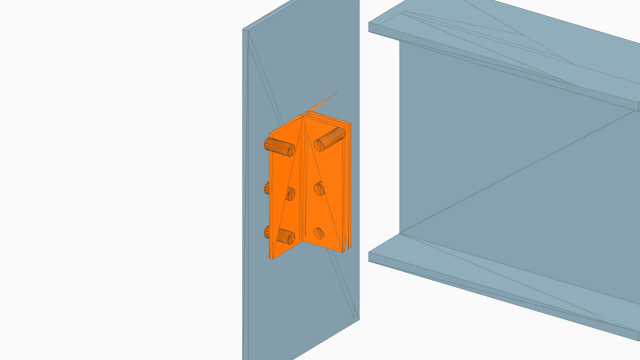
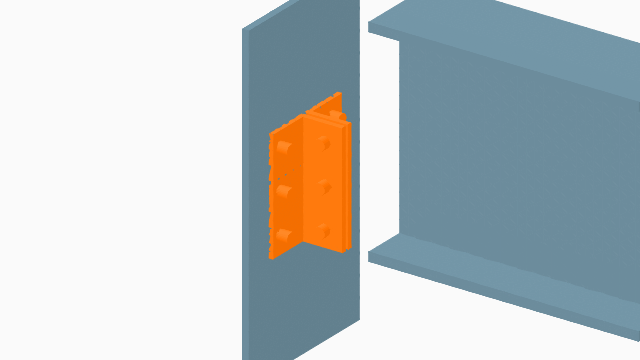
feat(gui): limpia el render 3D y resalta la conexion
- Corrige la orientacion de las caras y oculta las posteriores.
- Quita el wireframe de triangulacion y cierra las juntas con lapiz del color de la cara.
- Subdivide las caras grandes para que el orden por profundidad sea local.
- Colorea los elementos de conexion en naranja y la placa base en naranja.
- Regenera las miniaturas y actualiza la ayuda del visor.

diff --git a/src/openconex/gui/viewer3d.py b/src/openconex/gui/viewer3d.py
@@ -29,7 +29,11 @@ __all__ = ["Viewer3D", "part_color", "render_parts"]
 
 
 def part_color(name: str) -> QColor:
-    """Stable colour per semantic part name."""
+    """Stable colour per semantic part name.
+
+    Connection elements share a warm highlight so they stand out from the
+    grey-blue beam, support and column; bolts stay dark.
+    """
     lower = name.casefold()
     if "column" in lower:
         return QColor("#1565c0")
@@ -44,8 +48,12 @@ def part_color(name: str) -> QColor:
     if "face_plate" in lower or "embedded" in lower:
         return QColor("#546e7a")
     if "base_plate" in lower:
-        return QColor("#607d8b")
-    return QColor("#78909c")
+        return QColor("#ef6c00")
+    if ("bolt" in lower or "angle" in lower or "seat" in lower
+            or "stiffener" in lower or "bent_plate" in lower
+            or "doubler" in lower or lower == "plate" or "end_plate" in lower):
+        return QColor("#ef6c00")
+    return QColor("#607d8b")
 
 
 class _ViewCanvas(QWidget):
@@ -121,13 +129,21 @@ class _ViewCanvas(QWidget):
         cyaw, syaw = math.cos(yaw), math.sin(yaw)
         cpitch, spitch = math.cos(pitch), math.sin(pitch)
         ox, oy, oz = self._center
-        triangles: list[tuple[float, QPolygonF, QColor, str]] = []
-        for mesh in self._meshes:
+        # Outward normal of a face must point toward the camera; culling the
+        # rest removes hidden surfaces and most painter-order flicker.
+        view = (cpitch * syaw, cpitch * cyaw, spitch)
+        light_dir = (-0.35, 0.45, 0.82)
+        triangles: list[tuple[float, int, QPolygonF, QColor, str]] = []
+        for part_index, mesh in enumerate(self._meshes):
             if mesh.name in self._hidden:
                 continue
             color = (self._highlight_color if mesh.name in self._highlight
                      else part_color(mesh.name))
             for p0, p1, p2 in mesh.triangles:
+                normal = _normal(p0, p1, p2)
+                if (normal[0] * view[0] + normal[1] * view[1]
+                        + normal[2] * view[2]) <= 1e-9:
+                    continue
                 points = []
                 for point in (p0, p1, p2):
                     x, y, z = point[0] - ox, point[1] - oy, point[2] - oz
@@ -139,22 +155,24 @@ class _ViewCanvas(QWidget):
                     depth = z1 * spitch + y1 * cpitch
                     points.append((screen_x, screen_y, depth))
                 depth = sum(point[2] for point in points) / 3
-                normal = _normal(p0, p1, p2)
-                light = abs(normal[0] * 0.35 + normal[1] * -0.45 + normal[2] * 0.82)
+                light = max(0.0, normal[0] * light_dir[0]
+                            + normal[1] * light_dir[1]
+                            + normal[2] * light_dir[2])
                 shade = 0.55 + 0.45 * min(light, 1.0)
                 tint = QColor(color)
                 tint = tint.lighter(int(100 + shade * 70)) if self._selected == mesh.name \
                     else tint.darker(int(120 - shade * 40))
                 polygon = QPolygonF([QPointF(point[0], point[1]) for point in points])
-                triangles.append((depth, polygon, tint, mesh.name))
-        triangles.sort(key=lambda item: item[0])
-        painter.setPen(QPen(QColor(30, 35, 40, 90), 0.35))
-        for _depth, polygon, tint, name in triangles:
+                # A tiny part bias keeps coplanar faces from flickering while
+                # the model rotates.
+                triangles.append((depth + part_index * 0.001, part_index,
+                                  polygon, tint, mesh.name))
+        triangles.sort(key=lambda item: (item[0], item[1]))
+        for _depth, _part, polygon, tint, _name in triangles:
             painter.setBrush(QBrush(tint))
-            if name == self._selected:
-                painter.setPen(QPen(QColor("#ff6f00"), 1.4))
-            else:
-                painter.setPen(QPen(QColor(30, 35, 40, 80), 0.35))
+            # Same-colour outline closes antialiasing seams without drawing
+            # the triangulation as a wireframe.
+            painter.setPen(QPen(tint, 1.0))
             painter.drawPolygon(polygon)
         if self._show_hint:
             painter.setPen(QColor("#455a64"))
@@ -195,12 +213,16 @@ class _ViewCanvas(QWidget):
 
 
 def _swap_yz_meshes(meshes: list[MeshPart]) -> list[MeshPart]:
-    """Map the shear model's y-up axes to the viewer's z-up axes."""
+    """Map the shear model's y-up axes to the viewer's z-up axes.
+
+    Swapping y and z is a reflection: the vertex order is reversed so the
+    outward normals keep their orientation and back-face culling stays valid.
+    """
     swapped: list[MeshPart] = []
     for mesh in meshes:
         triangles = [((p0[0], p0[2], p0[1]),
-                      (p1[0], p1[2], p1[1]),
-                      (p2[0], p2[2], p2[1]))
+                      (p2[0], p2[2], p2[1]),
+                      (p1[0], p1[2], p1[1]))
                      for p0, p1, p2 in mesh.triangles]
         swapped.append(MeshPart(mesh.name, tuple(triangles)))
     return swapped
@@ -221,7 +243,7 @@ def render_parts(parts: list[Part], size: QSize, *, yaw: float = 35.0,
     members in ``hide``) and pulled back by ``margin`` so some member context
     remains visible.  It is used by the gallery thumbnail generator.
     """
-    meshes = tessellate_parts(parts)
+    meshes = tessellate_parts(parts, max_edge=25.0)
     if swap_yz:
         meshes = _swap_yz_meshes(meshes)
     if explode:

diff --git a/src/openconex/geometry3d/mesh.py b/src/openconex/geometry3d/mesh.py
@@ -4,6 +4,7 @@
 
 from __future__ import annotations
 
+import math
 from dataclasses import dataclass
 
 from openconex.geometry3d.base_plate import Part
@@ -13,6 +14,12 @@ __all__ = ["MeshPart", "tessellate_parts"]
 Point = tuple[float, float, float]
 Triangle = tuple[Point, Point, Point]
 
+# Large planar faces are only two triangles.  The painter's algorithm sorts by
+# triangle depth, so a huge face can be drawn over a nearer small part.  Split
+# long triangles to keep the depth comparison local.  The viewer uses the
+# default (interactive); the gallery asks for a finer 25 mm mesh.
+MAX_EDGE = 40.0
+
 
 @dataclass(frozen=True)
 class MeshPart:
@@ -20,11 +27,41 @@ class MeshPart:
     triangles: tuple[Triangle, ...]
 
 
-def tessellate_parts(parts: list[Part], deflection: float = 0.5) -> list[MeshPart]:
+def _midpoint(a: Point, b: Point) -> Point:
+    return ((a[0] + b[0]) / 2, (a[1] + b[1]) / 2, (a[2] + b[2]) / 2)
+
+
+def _split(a: Point, b: Point, c: Point) -> tuple[Triangle, Triangle]:
+    """Split the edge a-b, preserving the winding of (a, b, c)."""
+    m = _midpoint(a, b)
+    return (a, m, c), (m, b, c)
+
+
+def _subdivide(triangle: Triangle, max_edge: float,
+               depth: int = 0) -> list[Triangle]:
+    p0, p1, p2 = triangle
+    edges = ((p0, p1, p2), (p1, p2, p0), (p2, p0, p1))
+    lengths = (math.dist(p0, p1), math.dist(p1, p2), math.dist(p2, p0))
+    index = max(range(3), key=lengths.__getitem__)
+    if lengths[index] <= max_edge or depth >= 12:
+        return [triangle]
+    a, b, c = edges[index]
+    return [part for child in _split(a, b, c)
+            for part in _subdivide(child, max_edge, depth + 1)]
+
+
+def _subdivide_triangles(triangles: list[Triangle],
+                         max_edge: float) -> tuple[Triangle, ...]:
+    return tuple(part for triangle in triangles
+                 for part in _subdivide(triangle, max_edge))
+
+
+def tessellate_parts(parts: list[Part], deflection: float = 0.35,
+                     max_edge: float = MAX_EDGE) -> list[MeshPart]:
     """Triangulate every part; faces without a mesh are skipped."""
     from OCP.BRep import BRep_Tool
     from OCP.BRepMesh import BRepMesh_IncrementalMesh
-    from OCP.TopAbs import TopAbs_FACE
+    from OCP.TopAbs import TopAbs_FACE, TopAbs_REVERSED
     from OCP.TopExp import TopExp_Explorer
     from OCP.TopLoc import TopLoc_Location
     from OCP.TopoDS import TopoDS
@@ -36,6 +73,7 @@ def tessellate_parts(parts: list[Part], deflection: float = 0.5) -> list[MeshPar
         triangles: list[Triangle] = []
         while explorer.More():
             face = TopoDS.Face(explorer.Current())
+            reversed_face = face.Orientation() == TopAbs_REVERSED
             location = TopLoc_Location()
             triangulation = BRep_Tool.Triangulation_s(face, location)
             if triangulation is not None:
@@ -46,8 +84,12 @@ def tessellate_parts(parts: list[Part], deflection: float = 0.5) -> list[MeshPar
                     nodes.append((point.X(), point.Y(), point.Z()))
                 for index in range(1, triangulation.NbTriangles() + 1):
                     a, b, c = triangulation.Triangle(index).Get()
-                    triangles.append((nodes[a - 1], nodes[b - 1], nodes[c - 1]))
+                    if reversed_face:
+                        triangles.append((nodes[a - 1], nodes[c - 1], nodes[b - 1]))
+                    else:
+                        triangles.append((nodes[a - 1], nodes[b - 1], nodes[c - 1]))
             explorer.Next()
         if triangles:
-            meshes.append(MeshPart(part.name, tuple(triangles)))
+            meshes.append(MeshPart(part.name,
+                                   _subdivide_triangles(triangles, max_edge)))
     return meshes

diff --git a/tools/render_connection_thumbnails.py b/tools/render_connection_thumbnails.py
@@ -42,13 +42,13 @@ SIZE = QSize(640, 360)
 BASE_PLATE = (
     # family, subtype, asset, margin, highlight, hide, highlight colour
     ("base_plate", "exposed", "base_plate_exposed", 1.8, ("base_plate",),
-     ("beam", "support", "column", "pedestal", "foundation"), "#1565c0"),
+     ("beam", "support", "column", "pedestal", "foundation"), "#ef6c00"),
     ("base_plate", "embedded", "base_plate_embedded", 1.3,
      ("embedded_base_plate", "face_plate_front", "face_plate_back"), (), "#ef6c00"),
     ("base_plate", "weak", "base_plate_weak", 1.8, ("base_plate",),
-     ("beam", "support", "column", "pedestal", "foundation"), "#1565c0"),
+     ("beam", "support", "column", "pedestal", "foundation"), "#ef6c00"),
     ("base_plate", "exposed", "family_base_plate", 2.1, ("base_plate",),
-     ("beam", "support", "column", "pedestal", "foundation"), "#1565c0"),
+     ("beam", "support", "column", "pedestal", "foundation"), "#ef6c00"),
 )
 
 SHEAR_APP = (
@@ -60,7 +60,7 @@ SHEAR_APP = (
     ("shear_column", "extended_single_plate", "shear_extended_plate", 2.0,
      {"beam": (0.0, -200.0, 0.0)}, "column"),
     ("shear_column", "end_plate", "shear_end_plate", 2.0,
-     {"beam": (110.0, 0.0, 0.0), "end_plate": (80.0, 0.0, 0.0)}, "column"),
+     {"beam": (80.0, -260.0, 0.0), "end_plate": (80.0, 0.0, 0.0)}, "column"),
     ("shear_column", "seated", "shear_seated", 1.4,
      {"beam": (80.0, 0.0, 220.0)}, "column"),
     ("shear_column", "stiffened_seat", "shear_stiffened_seat", 1.4,
@@ -76,7 +76,7 @@ SHEAR_BEAM_APP = (
     ("shear_beam", "extended_single_plate", "shear_beam_extended_single_plate", 2.0,
      {"beam": (0.0, -200.0, 0.0)}, None),
     ("shear_beam", "end_plate", "shear_beam_end_plate", 2.0,
-     {"beam": (110.0, 0.0, 0.0), "end_plate": (80.0, 0.0, 0.0)}, None),
+     {"beam": (80.0, -260.0, 0.0), "end_plate": (80.0, 0.0, 0.0)}, None),
     ("shear_beam", "seated", "shear_beam_seated", 1.4,
      {"beam": (80.0, 0.0, 220.0)}, None),
     ("shear_beam", "stiffened_seat", "shear_beam_stiffened_seat", 1.4,

diff --git a/tests/outputs/test_viewer3d.py b/tests/outputs/test_viewer3d.py
@@ -34,6 +34,10 @@ def test_part_colors():
     assert part_color("shear_lug").name() == "#ef6c00"
     assert part_color("anchor_rod_1").name() == "#c62828"
     assert part_color("foundation").name() == "#8d6e63"
+    assert part_color("base_plate").name() == "#ef6c00"
+    assert part_color("angle+").name() == "#ef6c00"
+    assert part_color("seat").name() == "#ef6c00"
+    assert part_color("bolt1").name() == "#ef6c00"
 
 
 def test_viewer_lists_and_hides_parts(qapp):
@@ -53,11 +57,22 @@ def test_tessellate_box():
     from OCP.BRepPrimAPI import BRepPrimAPI_MakeBox
     from OCP.gp import gp_Pnt
 
+    from openconex.gui.viewer3d import _normal
+
     box = BRepPrimAPI_MakeBox(gp_Pnt(0, 0, 0), 10, 20, 30).Shape()
     meshes = tessellate_parts([Part("box", box)])
     assert len(meshes) == 1
     assert meshes[0].name == "box"
     assert len(meshes[0].triangles) > 0
+    center = (5.0, 10.0, 15.0)
+    for p0, p1, p2 in meshes[0].triangles:
+        normal = _normal(p0, p1, p2)
+        middle = ((p0[0] + p1[0] + p2[0]) / 3 - center[0],
+                  (p0[1] + p1[1] + p2[1]) / 3 - center[1],
+                  (p0[2] + p1[2] + p2[2]) / 3 - center[2])
+        assert sum(value * value for value in normal) == pytest.approx(1.0)
+        assert normal[0] * middle[0] + normal[1] * middle[1] \
+            + normal[2] * middle[2] > 0
 
 
 @pytest.mark.skipif(not occ_available(), reason="OpenCASCADE is not installed")

diff --git a/tests/outputs/test_start.py b/tests/outputs/test_start.py
@@ -94,6 +94,16 @@ def test_shear_viewer_swaps_y_and_z():
     assert swapped.triangles[0][0] == (0.0, 2.0, 1.0)
 
 
+def test_shear_viewer_keeps_the_outward_orientation():
+    mesh = MeshPart("beam", (((0.0, 0.0, 0.0), (1.0, 0.0, 0.0),
+                              (0.0, 1.0, 0.0)),))
+    p0, p1, p2 = _swap_yz_meshes([mesh])[0].triangles[0]
+    ux, uy, uz = (p1[0] - p0[0], p1[1] - p0[1], p1[2] - p0[2])
+    vx, vy, vz = (p2[0] - p0[0], p2[1] - p0[1], p2[2] - p0[2])
+    normal = (uy * vz - uz * vy, uz * vx - ux * vz, ux * vy - uy * vx)
+    assert normal == (0.0, 1.0, 0.0)
+
+
 def test_3d_thumbnails_are_packaged():
     for asset in ("base_plate_exposed", "base_plate_embedded", "base_plate_weak",
                   "family_base_plate", "family_shear_column", "family_shear_beam",

diff --git a/src/openconex/help.py b/src/openconex/help.py
@@ -548,8 +548,9 @@ _MENUS = [
         "Revise la pestaña Figuras después de calcular.",
         "Muestra el DXF convertido a imagen y el isométrico si está disponible.", "—", "todas"),
     _ui("tab.viewer", "Pestaña 3D", "Acciones",
-        "Visor 3D interactivo.",
-        "Gire, haga zoom o seleccione piezas en la pestaña 3D.",
+        "Visor 3D interactivo con caras ocultas y superficies sombreadas.",
+        "Gire, haga zoom o seleccione piezas; los elementos de conexión se "
+        "resaltan en naranja y los pernos en gris oscuro.",
         "Muestra el modelo 3D; no cambia el cálculo.", "—", "todas"),
     _ui("ui.type", "Selector de tipo", "Controles",
         "Elige la tipología de conexión.",

diff --git a/docs/usuario/10-referencia-conexion-corte.md b/docs/usuario/10-referencia-conexion-corte.md
@@ -153,7 +153,7 @@ Esta página se genera desde `src/openconex/help.py`. Cada entrada responde qué
 | `tab.summary` | Tabla de verificaciones gobernantes. | Revise la pestaña Resumen después de calcular. | Muestra demanda, capacidad, relación y estado por combinación. | — | todas |
 | `tab.details` | Traza de cálculo de cada verificación. | Seleccione una fila del resumen y revise esta pestaña. | Muestra fórmulas, valores intermedios y cláusulas. | — | todas |
 | `tab.figures` | Plano y figuras de la conexión. | Revise la pestaña Figuras después de calcular. | Muestra el DXF convertido a imagen y el isométrico si está disponible. | — | todas |
-| `tab.viewer` | Visor 3D interactivo. | Gire, haga zoom o seleccione piezas en la pestaña 3D. | Muestra el modelo 3D; no cambia el cálculo. | — | todas |
+| `tab.viewer` | Visor 3D interactivo con caras ocultas y superficies sombreadas. | Gire, haga zoom o seleccione piezas; los elementos de conexión se resaltan en naranja y los pernos en gris oscuro. | Muestra el modelo 3D; no cambia el cálculo. | — | todas |
 | `ui.type` | Elige la tipología de conexión. | Seleccione un tipo en el desplegable. | Muestra solo los campos aplicables y activa sus comprobaciones. | — | todas |
 | `ui.methods` | Métodos de diseño que se van a calcular. | Marque LRFD, ASD o ambos. | Genera las combinaciones y verifica con los factores correspondientes. | LRFD | todas |
 | `ui.cases` | Cargas D, L, S, W o combinaciones propias. | Agregue filas con nombre, tipo, V y P. | Las cargas se combinan y producen la demanda de cada verificación. | — | todas |

diff --git a/docs/usuario/09-interfaz.md b/docs/usuario/09-interfaz.md
@@ -89,6 +89,8 @@ La pestaña **3D** muestra el modelo de sólidos generado con OpenCASCADE:
 - **Doble clic** o **Ajustar vista** para volver a la vista isométrica.
 - La lista **Piezas** permite ocultar o mostrar cada sólido y resaltar una pieza al seleccionarla.
 
+El render oculta las caras posteriores, sombrea cada superficie y no dibuja la triangulación interna. Los elementos de la conexión se resaltan en naranja y los pernos en gris oscuro, para distinguirlos de la viga, el apoyo y la columna.
+
 El modelo se genera en segundo plano al entrar en la pestaña, con las piezas de `geometry3d.base_plate` (`base_plate_parts` o `embedded_base_parts`). Funciona con placa expuesta y base empotrada. La exportación STEP/STL no cambia.
 
 ## Tipos de conexión
